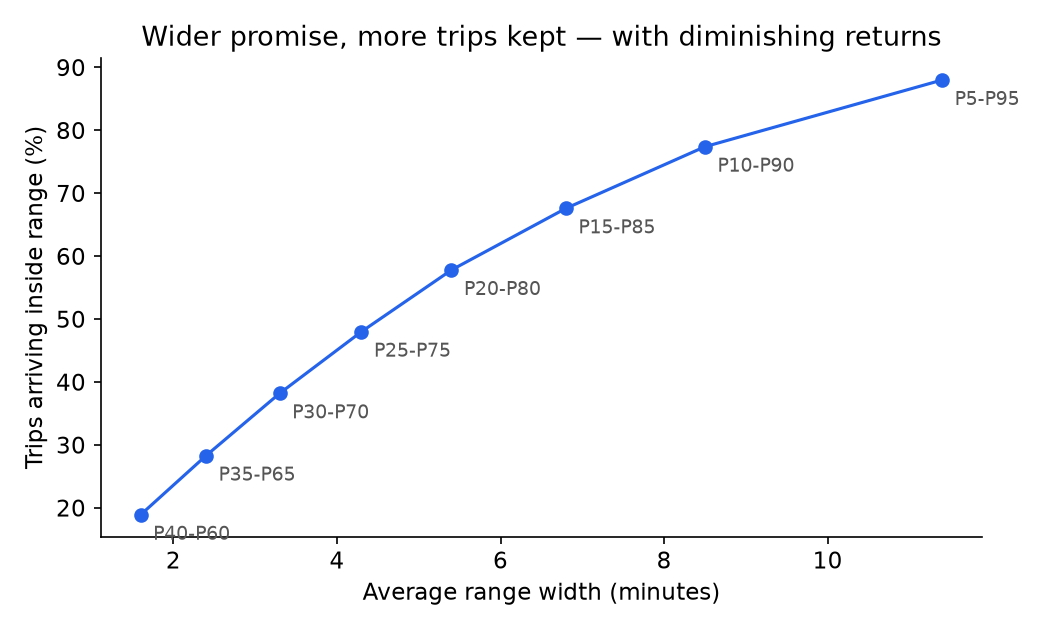
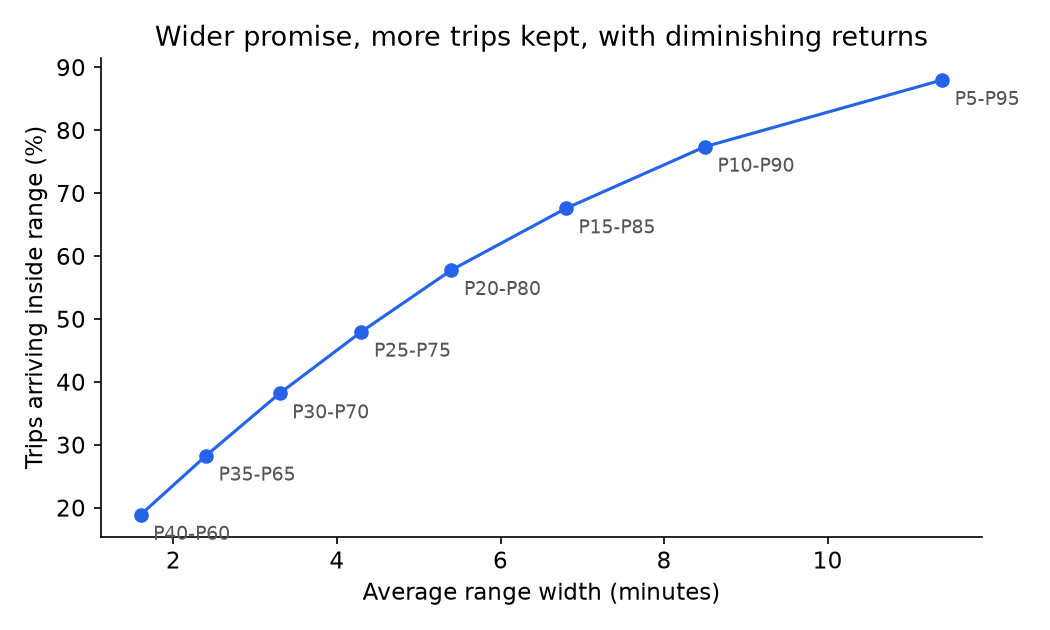
Add split conformal calibration (CQR), coverage by segment, assumed trust vs conversion frontier, Calibrated toggle in demo

Changed region(s): [[0.1219, 0.0302, 0.8838, 0.0905]]

diff --git a/docs/index.html b/docs/index.html
@@ -45,6 +45,8 @@ footer{margin-top:28px;font-size:12px;color:var(--muted)}a{color:inherit}
 <label for="dist">Trip distance <span class="val" id="distv"></span></label><input id="dist" type="range" min="0.5" max="15" step="0.5" value="3">
 <label for="hour">Pickup hour <span class="val" id="hourv"></span></label><input id="hour" type="range" min="0" max="23" step="1" value="18">
 <label>Promise style</label><div class="seg" id="seg"><button data-k="20">P20–P80</button><button data-k="10" class="on">P10–P90</button></div>
+<label>Calibrated (conformal)</label><div class="seg" id="cal"><button data-c="0" class="on">Raw</button><button data-c="1">Calibrated</button></div>
+<p class="note" id="covn" style="margin-bottom:14px"></p>
 <p class="note" id="n"></p>
 </div>
 <div>
@@ -59,25 +61,34 @@ footer{margin-top:28px;font-size:12px;color:var(--muted)}a{color:inherit}
 <button class="cta" id="slip">Simulate a delay on this order</button>
 <div class="banner" id="banner" role="status"></div>
 </div></div>
+<div class="card" style="margin-top:16px"><div class="tag">Trust vs conversion (ASSUMED elasticity)</div>
+<label for="el" style="margin-top:10px">Assumed conversion change per extra minute of upper bound <span class="val" id="elv"></span></label><input id="el" type="range" min="0" max="2" step="0.1" value="0.5">
+<p class="note" id="fr"></p><p class="note" style="margin-top:6px">The elasticity is an assumption for illustration, not a measured number. Promise-kept rates are measured on the held-out week.</p></div>
 <footer>ETAs = empirical percentiles from 52,455 real trips by distance band × time of day. "Arrive later than promised" = measured on 17,611 held-out trips (Jan 22–31) with a quantile gradient-boosting model. Source: NYC TLC trip records. <a href="https://github.com/akhilesh360">GitHub</a></footer>
 </div>
 <script src="eta_lookup.js"></script>
+<script src="calib.js"></script>
 <script>
-const L=window.ETA_LOOKUP,$=id=>document.getElementById(id);let k=10;
+const L=window.ETA_LOOKUP,C=window.CALIB,$=id=>document.getElementById(id);let k=10,cal=0;
 const band=h=>h<=5?"night":h<=9?"am_rush":h<=15?"midday":h<=19?"pm_rush":"evening";
 const bandName={night:"late night",am_rush:"morning rush",midday:"midday",pm_rush:"evening rush",evening:"evening"};
 function cell(d,h){let i=L.bins.findIndex((b,j)=>d>b&&d<=L.bins[j+1]);if(i<0)i=L.bins.length-2;return L.cells.find(c=>c.dbin===i&&c.band===band(h))}
 const fmtH=h=>`${(h%12)||12} ${h<12?"AM":"PM"}`,r5=x=>Math.max(5,Math.round(x/5)*5);
 const reasons=["Heavier traffic than usual on the route","Courier waiting at the restaurant","Rain slowing pickups in this area","Bridge congestion on the way"];
 function render(){const d=+$("dist").value,h=+$("hour").value,c=cell(d,h);$("distv").textContent=d+" mi";$("hourv").textContent=fmtH(h);
-const lo=r5(k==10?c.p10:c.p20),hi=Math.max(lo+5,r5(k==10?c.p90:c.p80)),p=Math.round(c.p50),max=Math.max(hi+10,c.p90+10);
+const q=cal?(k==10?C.q10:C.q20):0,lo=r5(Math.max(0,(k==10?c.p10:c.p20)-q)),hi=Math.max(lo+5,r5((k==10?c.p90:c.p80)+q)),p=Math.round(c.p50),max=Math.max(hi+10,c.p90+10);
 $("pt").innerHTML=`${p} <small>min</small>`;$("rg").innerHTML=`${lo}–${hi} <small>min</small>`;
 $("ptbar").style.left=(p/max*100)+"%";$("rgbar").style.left=(lo/max*100)+"%";$("rgbar").style.width=((hi-lo)/max*100)+"%";$("ax1").textContent=$("ax2").textContent=Math.round(max)+" min";
-$("ptlate").textContent="57%";$("rglate").textContent=k==10?"14%":"26%";
+$("ptlate").textContent="57%";const st=C["p"+k][cal?"after":"before"];$("rglate").textContent=Math.round(st.late_pct)+"%";
+$("covn").textContent=`${k==10?"P10–P90 targets 80%":"P20–P80 targets 60%"}. Measured inside range on the test week: ${st.coverage_pct}% (${cal?"conformal":"raw"}), avg width ${st.avg_width_min} min.`;
 $("n").textContent=`Based on ${c.n.toLocaleString()} real trips of this length in the ${bandName[band(h)]}.`;$("banner").classList.remove("show");window._s={lo,hi}}
 $("slip").onclick=()=>{const s=window._s,r=reasons[Math.floor(Math.random()*reasons.length)];
 $("banner").innerHTML=`<b>Running about 8 min late</b>, ${r}. New arrival: ${s.lo+5}–${s.hi+8} min. We'll keep you posted.`;$("banner").classList.add("show")};
 $("seg").onclick=e=>{if(!e.target.dataset.k)return;k=+e.target.dataset.k;[...$("seg").children].forEach(b=>b.classList.toggle("on",b===e.target));render()};
+$("cal").onclick=e=>{if(!e.target.dataset.c)return;cal=+e.target.dataset.c;[...$("cal").children].forEach(b=>b.classList.toggle("on",b===e.target));render()};
+function frontier(){const e=+$("el").value;$("elv").textContent="-"+e.toFixed(1)+"%";
+$("fr").innerHTML=C.frontier.map(p=>`Target ${p.target_pct}%: promise kept ${p.on_time_pct}%, upper bound +${p.extra_upper_min_vs_median.toFixed(1)} min, conversion ${(-e*p.extra_upper_min_vs_median).toFixed(1)}%`).join("<br>")}
+$("el").oninput=frontier;frontier();
 ["dist","hour"].forEach(i=>$(i).oninput=render);
 $("theme").onclick=()=>{const r=document.documentElement,dark=r.dataset.theme?r.dataset.theme==="dark":matchMedia("(prefers-color-scheme: dark)").matches;r.dataset.theme=dark?"light":"dark"};
 render();

diff --git a/docs/calib.js b/docs/calib.js
@@ -1,0 +1,1 @@
+window.CALIB={"q10": 0.25, "q20": 0.15, "p10": {"before": {"coverage_pct": 77.2, "late_pct": 14.1, "avg_width_min": 8.5, "n": 17611}, "after": {"coverage_pct": 80.5, "late_pct": 12.8, "avg_width_min": 9.0, "n": 17611}}, "p20": {"before": {"coverage_pct": 57.2, "late_pct": 26.3, "avg_width_min": 5.4, "n": 17611}, "after": {"coverage_pct": 60.4, "late_pct": 24.8, "avg_width_min": 5.7, "n": 17611}}, "frontier": [{"target_pct": 50, "on_time_pct": 69.5, "coverage_pct": 50.5, "extra_upper_min_vs_median": 2.4, "assumed_conversion_change_pct": -1.2}, {"target_pct": 60, "on_time_pct": 75.2, "coverage_pct": 60.4, "extra_upper_min_vs_median": 3.11, "assumed_conversion_change_pct": -1.56}, {"target_pct": 70, "on_time_pct": 81.1, "coverage_pct": 70.6, "extra_upper_min_vs_median": 4.03, "assumed_conversion_change_pct": -2.01}, {"target_pct": 75, "on_time_pct": 84.4, "coverage_pct": 75.8, "extra_upper_min_vs_median": 4.63, "assumed_conversion_change_pct": -2.32}, {"target_pct": 80, "on_time_pct": 87.2, "coverage_pct": 80.5, "extra_upper_min_vs_median": 5.31, "assumed_conversion_change_pct": -2.65}, {"target_pct": 85, "on_time_pct": 90.2, "coverage_pct": 85.7, "extra_upper_min_vs_median": 6.25, "assumed_conversion_change_pct": -3.12}, {"target_pct": 90, "on_time_pct": 93.1, "coverage_pct": 90.3, "extra_upper_min_vs_median": 7.48, "assumed_conversion_change_pct": -3.74}, {"target_pct": 95, "on_time_pct": 96.1, "coverage_pct": 95.0, "extra_upper_min_vs_median": 9.64, "assumed_conversion_change_pct": -4.82}]};

diff --git a/scripts/analyze.py b/scripts/analyze.py
@@ -78,3 +78,82 @@ bars = ax.bar(names, vals, color=["#9ca3af", "#9ca3af", "#2563eb", "#1e40af"])
 ax.bar_label(bars, fmt="%.0f%%"); ax.set_ylabel("Orders later than promised (%)")
 ax.set_title("Share of trips that arrive after the promised time"); fig.tight_layout()
 fig.savefig(DOCS / "late_share.png", dpi=150)
+
+# ---------------------------------------------------------------------------
+# Split conformal calibration (conformalized quantile regression, CQR).
+# Train quantile models on Jan 1-17, calibrate on Jan 18-21, test on Jan 22-31.
+# Conformity score E = max(lo - y, y - hi); widen both bounds by the
+# ceil((n+1)(1-a))/n quantile of E, which gives >= 1-a coverage under exchangeability.
+fit_cut = df.lpep_pickup_datetime < "2024-01-18"
+ptr, cal = df[fit_cut & cut], df[~fit_cut & cut]
+def fit2(q):
+    m = HistGradientBoostingRegressor(loss="quantile", quantile=q, max_iter=300,
+                                      categorical_features=[3], random_state=0).fit(ptr[X_cols], ptr.minutes)
+    return m.predict(cal[X_cols]), m.predict(te[X_cols])
+yc = cal.minutes.values
+def qhat_for(a, lo_c, hi_c):
+    s = np.maximum(lo_c - yc, yc - hi_c); n = len(s)
+    return float(np.quantile(s, min(1.0, np.ceil((n + 1) * (1 - a)) / n), method="higher"))
+def cov(lo, hi, mask=None):
+    m = np.ones(len(y), bool) if mask is None else mask
+    return {"coverage_pct": round(100 * np.mean((y[m] >= lo[m]) & (y[m] <= hi[m])), 1),
+            "late_pct": round(100 * np.mean(y[m] > hi[m]), 1),
+            "avg_width_min": round(float(np.mean(hi[m] - lo[m])), 1), "n": int(m.sum())}
+lo_c, lo_t = fit2(0.1); hi_c, hi_t = fit2(0.9)
+qh = qhat_for(0.2, lo_c, hi_c)
+lo_k, hi_k = np.maximum(lo_t - qh, 0), hi_t + qh
+band_of = lambda h: pd.cut(h, [-1, 5, 9, 15, 19, 23], labels=["night", "am_rush", "midday", "pm_rush", "evening"])
+te_band = np.asarray(band_of(te.hour)).astype(str)
+dlabels = ["0-1 mi", "1-2 mi", "2-4 mi", "4-8 mi", "8-20 mi"]
+te_dist = np.asarray(pd.cut(te.trip_distance, [0, 1, 2, 4, 8, 20], labels=dlabels)).astype(str)
+segs = [("overall", "all", None)] + [("hour", b, te_band == b) for b in ["night", "am_rush", "midday", "pm_rush", "evening"]] \
+       + [("distance", d, te_dist == d) for d in dlabels]
+calib = {"target_coverage_pct": 80, "rows_fit": int(len(ptr)), "rows_calibration": int(len(cal)), "rows_test": int(len(te)),
+         "qhat_min": round(qh, 2), "segments": []}
+for kind, name, m in segs:
+    calib["segments"].append({"kind": kind, "segment": name, "before": cov(lo_t, hi_t, m), "after": cov(lo_k, hi_k, m)})
+# P20-P80 conformal shift too (for the demo toggle)
+lo2c, lo2t = fit2(0.2); hi2c, hi2t = fit2(0.8)
+qh60 = qhat_for(0.4, lo2c, hi2c)
+calib["p20_p80"] = {"target_coverage_pct": 60, "qhat_min": round(qh60, 2),
+                    "before": cov(lo2t, hi2t), "after": cov(np.maximum(lo2t - qh60, 0), hi2t + qh60)}
+
+# Trust vs conversion frontier. ASSUMPTION (not measured): each extra minute of the
+# upper bound vs the one-number median quote costs 0.5% of orders, relative.
+ELASTICITY = -0.5
+front = []
+for t in [50, 60, 70, 75, 80, 85, 90, 95]:
+    a = 1 - t / 100
+    lc, lt_ = fit2(a / 2); hc, ht_ = fit2(1 - a / 2); q = qhat_for(a, lc, hc)
+    hi_f = ht_ + q; extra = float(np.mean(hi_f - preds[.5]))
+    front.append({"target_pct": t, "on_time_pct": round(100 * np.mean(y <= hi_f), 1),
+                  "coverage_pct": round(100 * np.mean((y >= np.maximum(lt_ - q, 0)) & (y <= hi_f)), 1),
+                  "extra_upper_min_vs_median": round(extra, 2),
+                  "assumed_conversion_change_pct": round(ELASTICITY * extra, 2)})
+calib["frontier"] = {"assumed_elasticity_pct_per_min": ELASTICITY,
+                     "note": "ASSUMPTION: elasticity is illustrative, not measured", "points": front}
+res["conformal"] = calib
+(DOCS / "results.json").write_text(json.dumps(res, indent=2)); print(json.dumps(calib, indent=2))
+(DOCS / "calib.js").write_text("window.CALIB=" + json.dumps({"q10": round(qh, 2), "q20": round(qh60, 2),
+    "p10": {"before": calib["segments"][0]["before"], "after": calib["segments"][0]["after"]},
+    "p20": {"before": calib["p20_p80"]["before"], "after": calib["p20_p80"]["after"]}, "frontier": front}) + ";")
+
+fig, axs = plt.subplots(1, 2, figsize=(11, 4.4), gridspec_kw={"width_ratios": [3, 1.3]})
+S = calib["segments"]; xs = np.arange(len(S)); w = 0.38
+axs[0].bar(xs - w/2, [s["before"]["coverage_pct"] for s in S], w, color="#9ca3af", label="Raw P10-P90")
+axs[0].bar(xs + w/2, [s["after"]["coverage_pct"] for s in S], w, color="#1e40af", label="Conformal (CQR)")
+axs[0].axhline(80, color="#b91c1c", ls="--", lw=1); axs[0].text(len(S) - .5, 80.6, "80% target", color="#b91c1c", ha="right", fontsize=9)
+axs[0].set_xticks(xs, [s["segment"].replace("_", " ") for s in S], rotation=35, ha="right", fontsize=9)
+axs[0].set_ylim(60, 95); axs[0].set_ylabel("Test-week trips inside range (%)"); axs[0].legend(loc="lower left", fontsize=9, frameon=False)
+axs[0].set_title("Coverage by segment, before vs after calibration")
+o = S[0]; axs[1].bar(["Raw", "Conformal"], [o["before"]["avg_width_min"], o["after"]["avg_width_min"]], color=["#9ca3af", "#1e40af"])
+axs[1].bar_label(axs[1].containers[0], fmt="%.1f min"); axs[1].set_title("Avg width"); axs[1].set_ylabel("Minutes")
+fig.tight_layout(); fig.savefig(DOCS / "calibration.png", dpi=150)
+
+fig, ax = plt.subplots(figsize=(7, 4.2))
+ax.plot([-p["assumed_conversion_change_pct"] for p in front], [p["on_time_pct"] for p in front], "o-", color="#1e40af")
+for p in front: ax.annotate(f"{p['target_pct']}%", (-p["assumed_conversion_change_pct"], p["on_time_pct"]),
+                            textcoords="offset points", xytext=(6, -12), fontsize=9, color="#555")
+ax.set_xlabel("Assumed conversion loss (%), at ASSUMED -0.5% per extra minute"); ax.set_ylabel("Promise kept (%)")
+ax.set_title("Trust vs conversion frontier (conformal ranges; elasticity assumed)", fontsize=11); fig.tight_layout()
+fig.savefig(DOCS / "frontier.png", dpi=150)

diff --git a/README.md b/README.md
@@ -19,7 +19,7 @@ Customers can trust the ETA: when the app makes a promise, the order arrives by 
 ## 3. Solution and trade-offs
 **Build:** show a range from predicted percentiles (default P10–P90, rounded to 5 min). If the live trip drifts past the upper bound, show one plain reason ("courier waiting at restaurant") and a new range.
 
-**Trade-offs:** a wider range means fewer late orders but a less precise quote, and possibly lower conversion. P10–P90 is the default because P20–P80 is still late 1 in 4 times, and P5–P95 adds 3 min of width for 6.5 points.
+**Trade-offs:** a wider range means fewer late orders but a less precise quote, and possibly lower conversion. P10–P90 is the default because P20–P80 is still late 1 in 4 times, and P5–P95 adds 3 min of width for 6.5 points. Raw model quantiles under-cover (77% for a nominal 80%), so the shipped range is conformally calibrated: +0.5 min of width buys the missing 3 points.
 
 **Not building:** a new routing or prep-time model (the point is the promise, not a better predictor); credits for late orders (a separate cost decision); per-user ranges (too complex before we know ranges help).
 
@@ -35,6 +35,7 @@ Customers can trust the ETA: when the app makes a promise, the order arrives by 
 ## 6. Guardrail metrics
 - Checkout conversion: stop if it falls by more than 1% relative to control.
 - Late-order support contacts: must not rise.
+- Calibration: measured promise-kept coverage within 2 points of target, per hour band and distance band, checked weekly.
 - Minutes late when late: must not rise (a range alone doesn't fix this).
 - Slip-reason accuracy: ≥ 95% match with courier/restaurant logs, from an audit sample. A wrong reason is worse than none.
 
@@ -42,6 +43,7 @@ Customers can trust the ETA: when the app makes a promise, the order arrives by 
 High reach (every order sees an ETA), low effort (reuse existing duration predictions; add quantiles and copy). Ranked against:
 - **Better point model:** costly, and late ~50% of the time by design.
 - **Late-order credits:** recurring cost and doesn't prevent the broken promise.
+- **Conformal calibration:** near-zero effort (one held-out quantile shift), so it ships with the range rather than waiting for a later phase.
 
 ## 8. Experiment and learning
 **What the data in this repo shows (proxy, not Uber data).** NYC green-taxi trips, January 2024: 52,455 trips after cleaning. I trained a gradient-boosting model with quantile loss on pickup hour, weekday, distance and pickup zone. It trained on Jan 1–21 and was tested on Jan 22–31 (17,611 trips).
@@ -57,14 +59,18 @@ High reach (every order sees an ETA), low effort (reuse existing duration predic
 ![Late share](docs/late_share.png) ![Width vs coverage](docs/width_vs_coverage.png)
 
 - A range cuts *how often* trips are late by about three-quarters, but not *how late* they are when late. The slip banner covers that gap.
-- Coverage is slightly below nominal (77% actual where P10–P90 means 80%), so production needs calibration.
+- Coverage is slightly below nominal (77% actual where P10–P90 means 80%), so I added split conformal calibration (CQR): quantile models fit on Jan 1–17 (28,175 trips), conformity scores max(lo − y, y − hi) on Jan 18–21 (6,669 trips), and both bounds widened by their 80% quantile (0.25 min). On the test week, coverage goes **77.2% → 80.5%**, late 14.1% → 12.8%, width 8.5 → 9.0 min. Every hour band now lands at 80–81% except late night (75% → 78%); distance bands improve too, but long trips stay short (8–20 mi: 74% → 75%), so the next step is per-segment (Mondrian) calibration.
+
+![Calibration](docs/calibration.png) ![Frontier](docs/frontier.png)
+
+- **Trust vs conversion (assumed).** Using an **assumed** elasticity of −0.5% orders per extra minute of upper bound (not measured; the demo has a slider), an 80% calibrated range keeps 87.2% of promises at an assumed −2.7% conversion, and 90% keeps 93.1% at an assumed −3.7%. The A/B test replaces this assumption with a real number.
 - Taxi trips have no restaurant prep time, so real delivery variance is likely higher.
 
 **Test.** A/B test on **repeat users first** in 2–3 cities: control is today's single ETA, treatment is a P10–P90 range plus slip reasons. Run for 2–4 weeks.
 
 **Decision rule.** Ship to repeat users if promise-kept rate rises and conversion stays within the 1% guardrail. If conversion drops, test P20–P80 or different wording before scaling back.
 
-**Next.** Calibrate ranges per city and hour (conformal) so nominal coverage matches real coverage, then extend to new users.
+**Next.** Calibrate per segment (city, hour, distance) so each group, not just the average, hits its target, then extend to new users.
 
 ---
 **How to run it**
